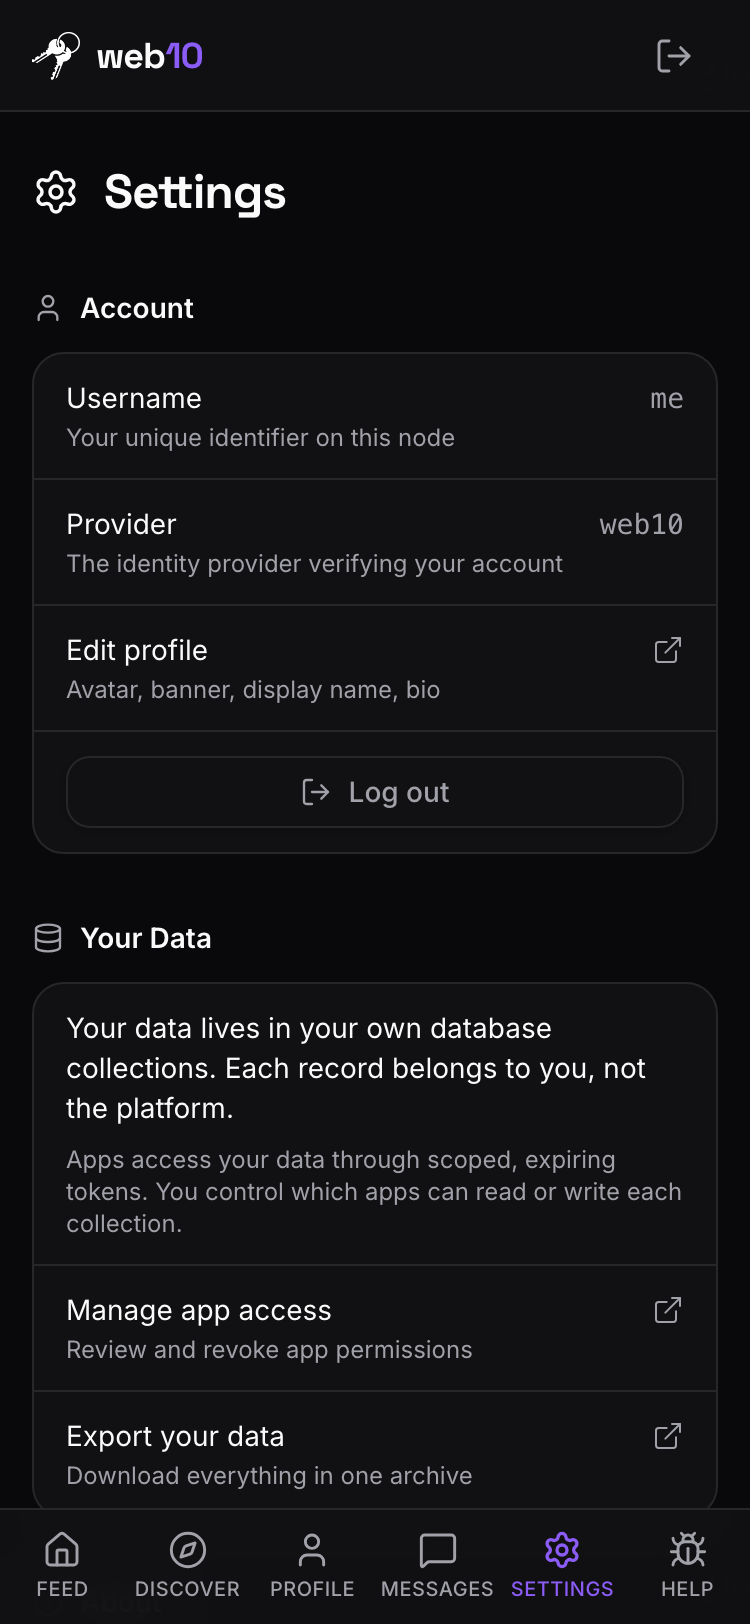
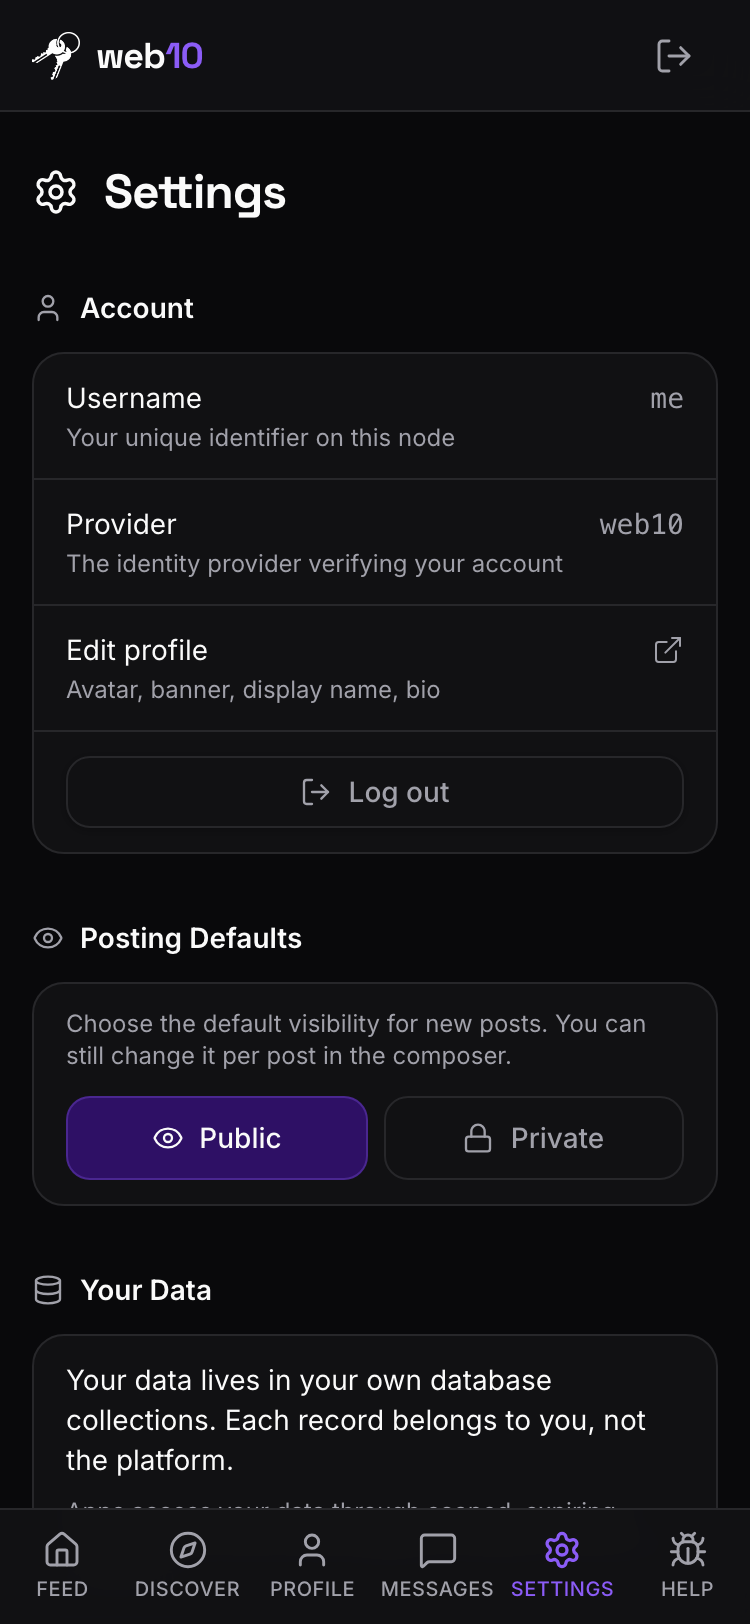
feat(web10-social): D-settings-tab bite b — posting defaults record + default-visibility control + PostComposer initial state

diff --git a/marketing/web10-social/src/components/Settings/SettingsScreen.tsx b/marketing/web10-social/src/components/Settings/SettingsScreen.tsx
@@ -1,6 +1,9 @@
+import { useState, useEffect } from 'react';
 import { getWapi } from '@/data/wapi';
+import { readSettings, saveSettings, type AppSettings } from '@/data/settings';
+import { cn } from '@/lib/utils';
 import { Button } from '@/components/ui/button';
-import { Settings as SettingsIcon, User, Database, Info, LogOut, ExternalLink, Shield, Bug } from 'lucide-react';
+import { Settings as SettingsIcon, User, Database, Info, LogOut, ExternalLink, Shield, Bug, Eye, Lock, Loader2 } from 'lucide-react';
 
 const APP_VERSION = import.meta.env?.VITE_GIT_COMMIT || '0.1.0';
 const AUTH_ORIGIN = import.meta.env?.VITE_AUTH_ORIGIN || 'https://auth.web10.app';
@@ -46,10 +49,94 @@ function LinkRow({ label, description, href, onClick }: { label: string; descrip
   );
 }
 
+function PostingDefaultsSection({ settings, onSave }: { settings: AppSettings; onSave: (s: Partial<AppSettings>) => void }) {
+  const [saving, setSaving] = useState(false);
+  const [saved, setSaved] = useState(false);
+
+  async function handleSave(v: 'public' | 'private') {
+    setSaving(true);
+    setSaved(false);
+    await onSave({ defaultVisibility: v });
+    setSaving(false);
+    setSaved(true);
+    setTimeout(() => setSaved(false), 2000);
+  }
+
+  return (
+    <Section title="Posting Defaults" icon={Eye}>
+      <div className="px-4 py-3 space-y-3">
+        <p className="text-xs text-muted-foreground">
+          Choose the default visibility for new posts. You can still change it per post in the composer.
+        </p>
+        <div className="flex gap-2">
+          <button
+            type="button"
+            onClick={() => handleSave('public')}
+            disabled={saving}
+            data-testid="settings-visibility-public"
+            className={cn(
+              'flex-1 flex items-center justify-center gap-2 px-3 py-2.5 rounded text-sm font-medium border transition-colors duration-150',
+              settings.defaultVisibility === 'public'
+                ? 'bg-brand-muted border-brand/30 text-foreground'
+                : 'bg-transparent border-border text-muted-foreground hover:text-foreground hover:bg-elevated',
+              'disabled:cursor-not-allowed disabled:opacity-50',
+            )}
+          >
+            <Eye className="w-4 h-4" strokeWidth={1.75} />
+            Public
+          </button>
+          <button
+            type="button"
+            onClick={() => handleSave('private')}
+            disabled={saving}
+            data-testid="settings-visibility-private"
+            className={cn(
+              'flex-1 flex items-center justify-center gap-2 px-3 py-2.5 rounded text-sm font-medium border transition-colors duration-150',
+              settings.defaultVisibility === 'private'
+                ? 'bg-brand-muted border-brand/30 text-foreground'
+                : 'bg-transparent border-border text-muted-foreground hover:text-foreground hover:bg-elevated',
+              'disabled:cursor-not-allowed disabled:opacity-50',
+            )}
+          >
+            <Lock className="w-4 h-4" strokeWidth={1.75} />
+            Private
+          </button>
+        </div>
+        {saving && (
+          <p className="text-xs text-muted-foreground flex items-center gap-1.5">
+            <Loader2 className="w-3 h-3 animate-spin text-brand" />
+            Saving…
+          </p>
+        )}
+        {saved && (
+          <p className="text-xs text-success" role="status">Saved.</p>
+        )}
+      </div>
+    </Section>
+  );
+}
+
 export default function SettingsScreen({ onLogout, onReportBug }: { onLogout: () => void; onReportBug: () => void }) {
   const token = getWapi().readToken();
   const username = token?.username || '';
   const provider = token?.provider || '';
+
+  const [settings, setSettings] = useState<AppSettings | null>(null);
+  const [settingsLoading, setSettingsLoading] = useState(true);
+
+  useEffect(() => {
+    readSettings()
+      .then((s) => {
+        setSettings(s);
+      })
+      .catch(() => {})
+      .finally(() => setSettingsLoading(false));
+  }, []);
+
+  async function handleSaveSettings(partial: Partial<AppSettings>) {
+    const saved = await saveSettings(partial);
+    setSettings(saved);
+  }
 
   return (
     <div className="max-w-2xl mx-auto px-4 py-6 space-y-8">
@@ -86,6 +173,10 @@ export default function SettingsScreen({ onLogout, onReportBug }: { onLogout: ()
           </Button>
         </div>
       </Section>
+
+      {!settingsLoading && settings && (
+        <PostingDefaultsSection settings={settings} onSave={handleSaveSettings} />
+      )}
 
       <Section title="Your Data" icon={Database}>
         <div className="px-4 py-3 space-y-2">

diff --git a/marketing/web10-social/screenshots/harness/mock-data.ts b/marketing/web10-social/screenshots/harness/mock-data.ts
@@ -141,6 +141,11 @@ export async function unspamFlagUser(username: string, provider: string): Promis
   const c = contacts.find((x) => x.username === username && x.provider === provider);
   if (c) c.spam_flagged = false;
 }
+export async function toggleSpamFlag(id: string, flagged: boolean): Promise<ContactRecord> {
+  const c = contacts.find((x) => x._id === id);
+  if (c) c.spam_flagged = flagged;
+  return c || ({ _id: id, username: '', provider: 'web10' } as ContactRecord);
+}
 export function classifyThread(
   lastMsg: DmRecord | null,
   me: { provider: string; username: string },
@@ -198,5 +203,6 @@ export async function readStaging(): Promise<unknown[]> { return []; }
 export async function movePostToPublic(): Promise<void> {}
 export async function movePostToPrivate(): Promise<void> {}
 export async function deleteStaging(): Promise<void> {}
-export async function readSettings(): Promise<unknown> { return {}; }
-export async function saveSettings(): Promise<void> {}
+export type AppSettings = { defaultVisibility?: 'public' | 'private' };
+export async function readSettings(): Promise<AppSettings> { return { defaultVisibility: 'public' }; }
+export async function saveSettings(partial: Partial<AppSettings>): Promise<AppSettings> { return { defaultVisibility: partial.defaultVisibility || 'public' }; }

diff --git a/marketing/web10-social/src/components/Feed/PostComposer.tsx b/marketing/web10-social/src/components/Feed/PostComposer.tsx
@@ -5,6 +5,7 @@ import { Textarea } from '@/components/ui/textarea';
 import { Input } from '@/components/ui/input';
 import { createPost, uploadMedia, readProfile, resolveMediaRefs, fanOutToFollowers } from '@/data';
 import type { MediaRecord, ProfileRecord, Visibility } from '@/data';
+import { readSettings } from '@/data/settings';
 import {
   validateMedia,
   processImage,
@@ -155,6 +156,14 @@ export default function PostComposer({ onPostCreated }: { onPostCreated?: () => 
         if (p?.avatar_ref) {
           const [media] = await resolveMediaRefs([p.avatar_ref]);
           setAvatarUrl(media?.url);
+        }
+      })
+      .catch(() => {});
+
+    readSettings()
+      .then((s) => {
+        if (s.defaultVisibility === 'private') {
+          setVisibility('private');
         }
       })
       .catch(() => {});

diff --git a/marketing/web10-social/screenshots/harness/mock-settings.ts b/marketing/web10-social/screenshots/harness/mock-settings.ts
@@ -1,0 +1,21 @@
+// Screenshot-harness mock of `@/data/settings`.
+// Aliased in place of the real data/settings.ts by screenshots/vite.config.ts
+// so the Settings screen renders with seeded content and no backend.
+export type AppSettings = { defaultVisibility?: 'public' | 'private' };
+
+const defaultSettings: AppSettings = { defaultVisibility: 'public' };
+
+let cachedSettings: AppSettings | null = { ...defaultSettings };
+
+export async function readSettings(): Promise<AppSettings> {
+  return cachedSettings || defaultSettings;
+}
+
+export async function saveSettings(partial: Partial<AppSettings>): Promise<AppSettings> {
+  cachedSettings = { ...defaultSettings, ...partial };
+  return cachedSettings;
+}
+
+export function clearSettingsCache() {
+  cachedSettings = null;
+}

diff --git a/marketing/web10-social/screenshots/vite.config.ts b/marketing/web10-social/screenshots/vite.config.ts
@@ -19,6 +19,7 @@ export default defineConfig({
   resolve: {
     alias: [
       { find: '@/data/wapi', replacement: path.resolve(here, './harness/mock-wapi.ts') },
+      { find: /^@\/data\/settings$/, replacement: path.resolve(here, './harness/mock-settings.ts') },
       { find: /^@\/data$/, replacement: path.resolve(here, './harness/mock-data.ts') },
       { find: '@', replacement: path.resolve(root, './src') },
     ],
